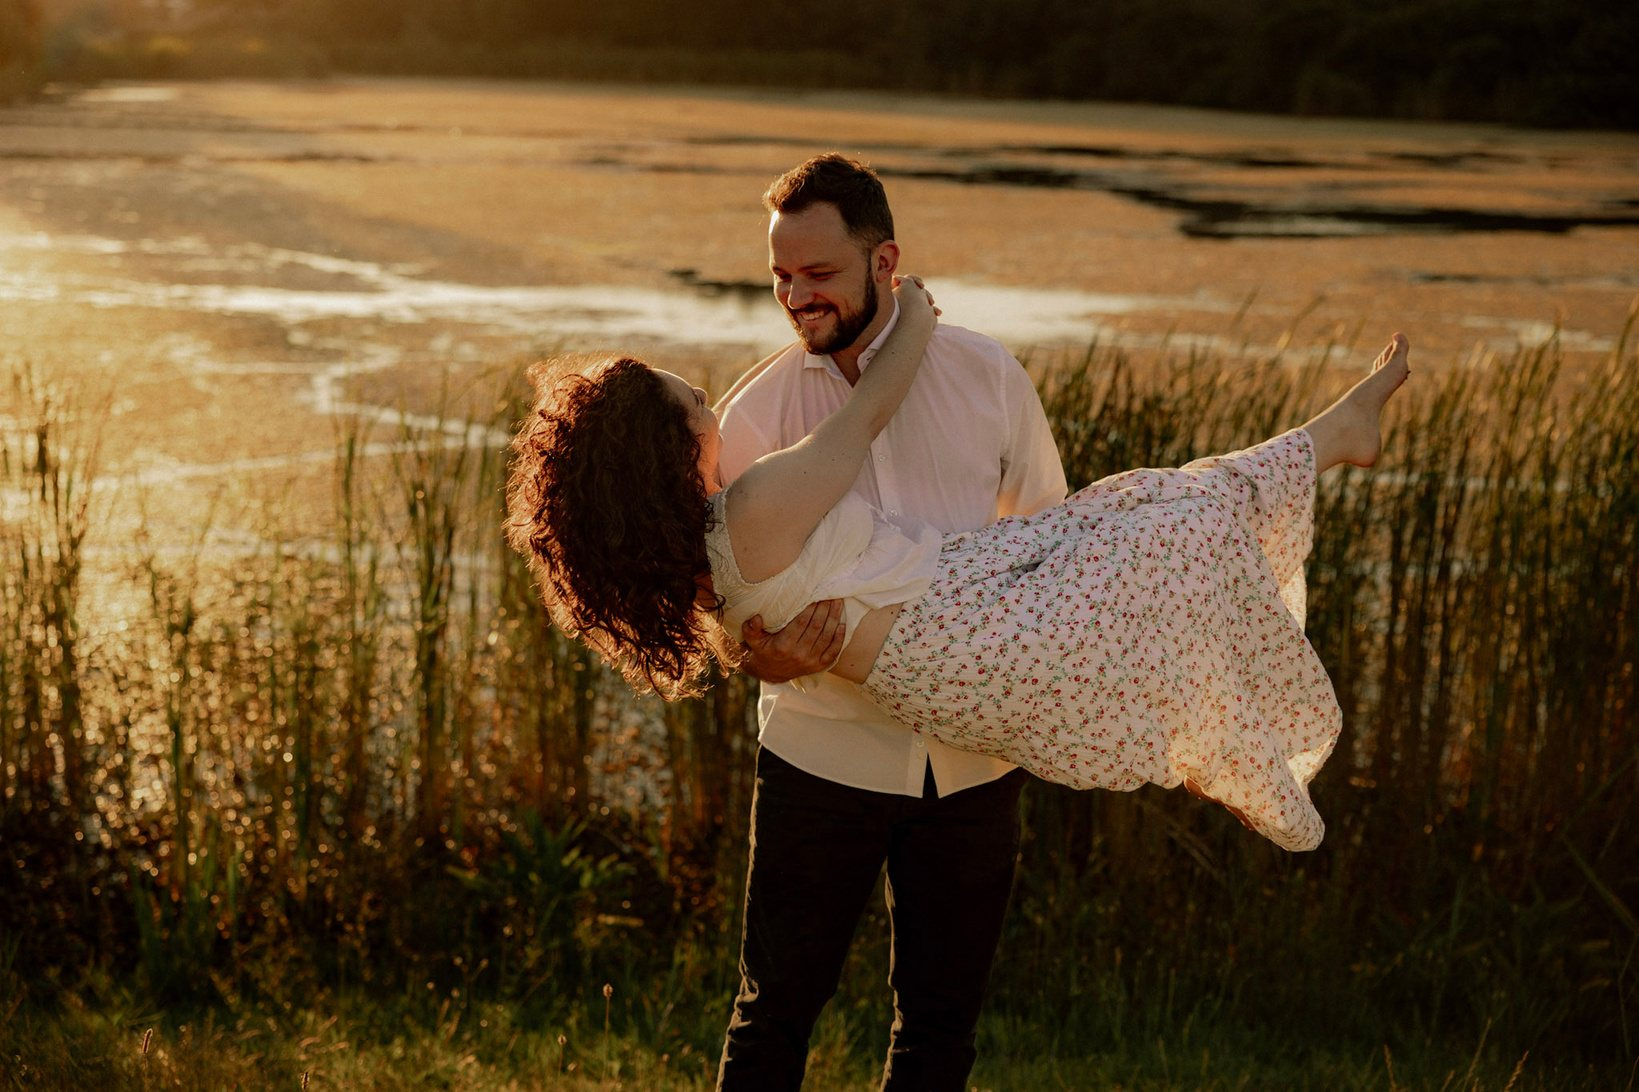
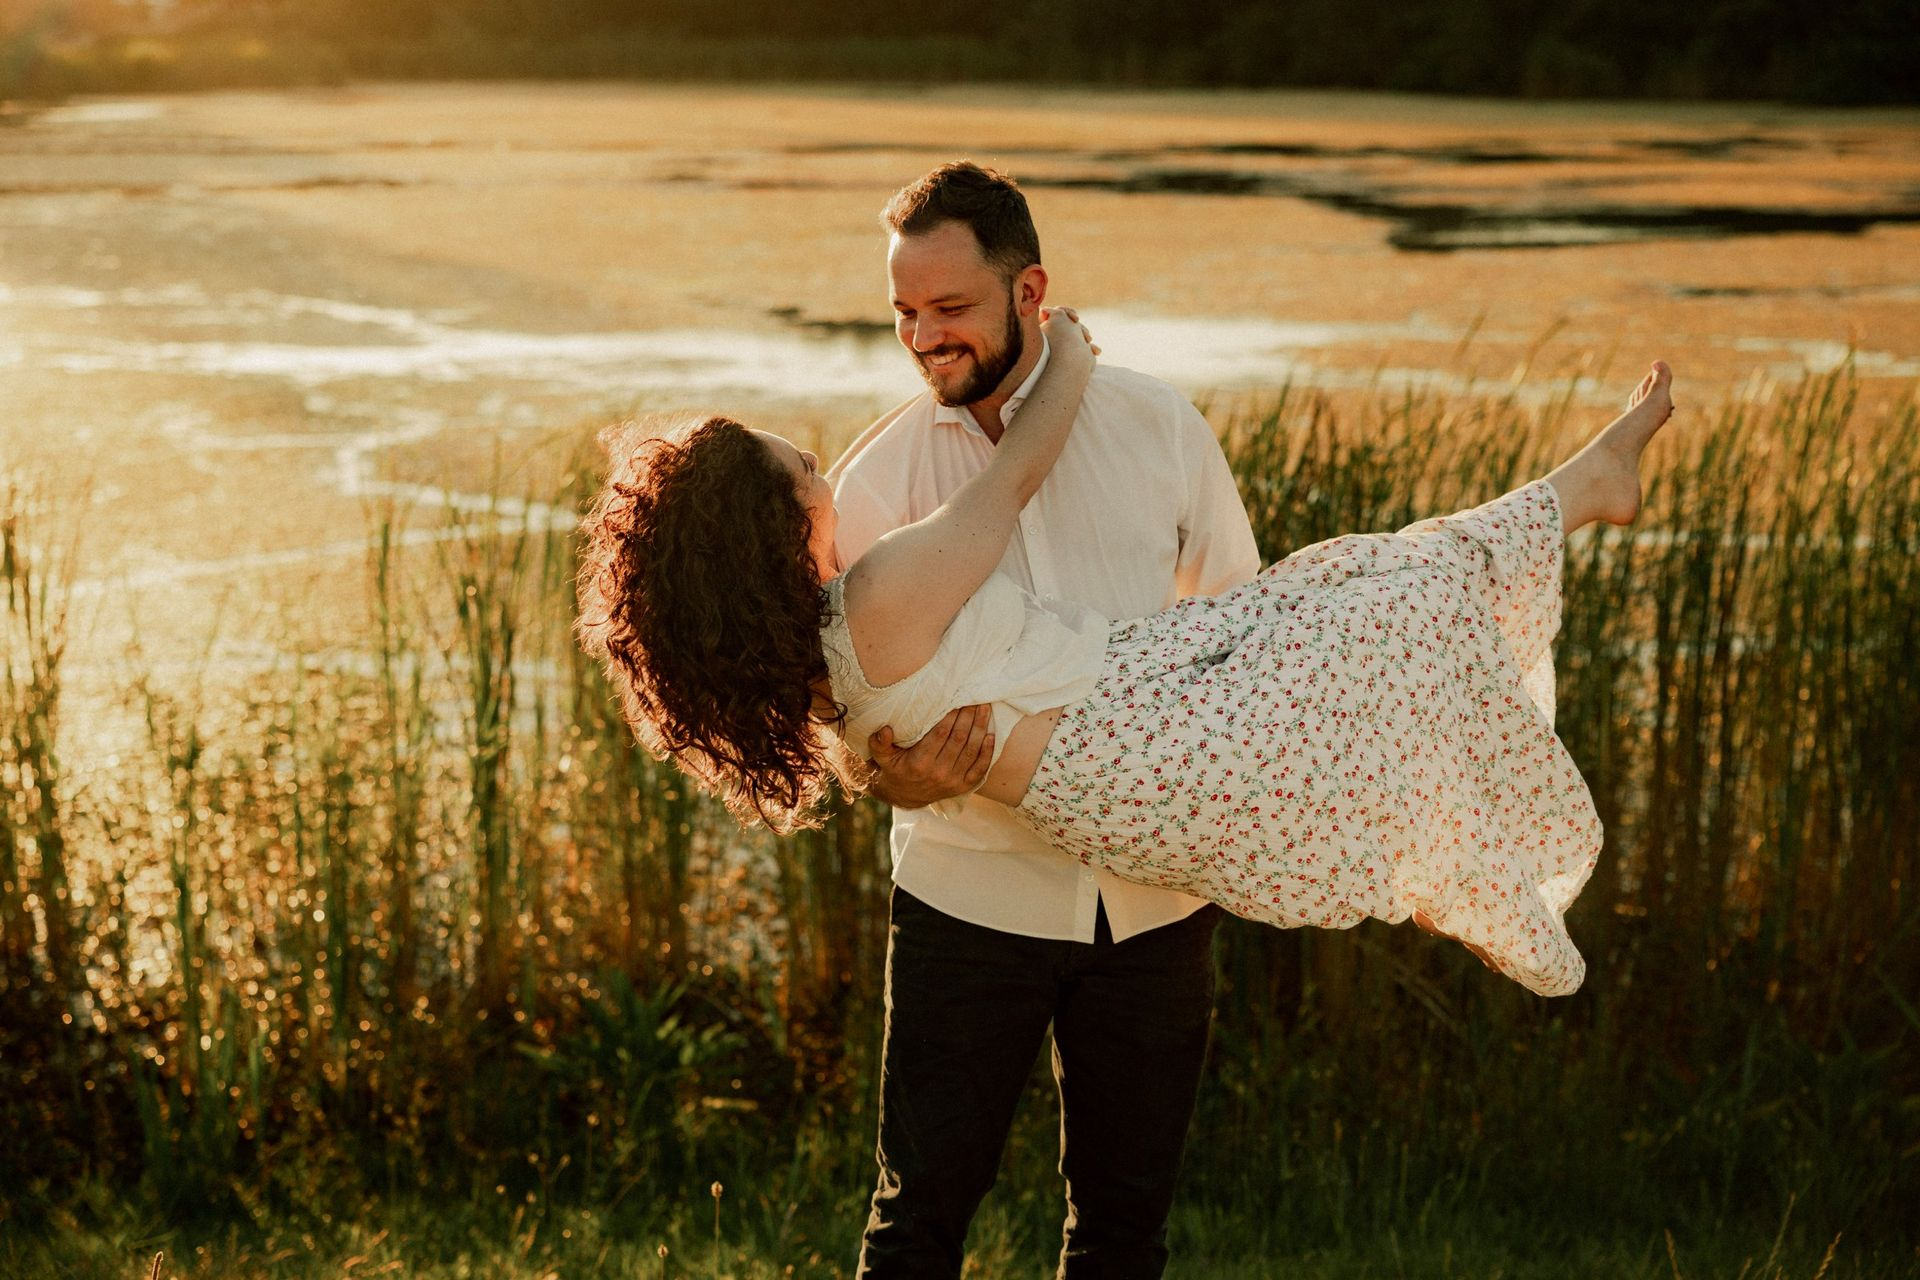
Add files via upload

diff --git a/index.html b/index.html
@@ -188,6 +188,15 @@
     @media (max-width: 760px) {
       .site-header.is-open .nav { font-size: 14px; }
     }
+    /* ---------- Hero framing: keeps the people clear of the headline ---------- */
+    @media (min-width: 901px) {
+      .slide--lake { background-size: 160% auto; background-position: 5% 75%; }
+      .slide--meadow { background-size: 140% auto; background-position: 8% 52%; }
+    }
+    @media (max-width: 900px) {
+      .slide--lake { background-size: auto 150%; background-position: 47% 32%; }
+      .slide--meadow { background-size: auto 150%; background-position: 47% 11%; }
+    }
   </style>
 </head>
 
@@ -222,8 +231,8 @@
 
   <section class="hero" aria-roledescription="carousel" aria-label="Featured photography">
     <div class="slide is-active" style="background-image:url('hero-reeds.jpg'); background-position: center 32%" role="group" aria-label="Slide 1 of 3"></div>
-    <div class="slide" style="background-image:url('hero-lake.jpg'); background-position: center 62%" role="group" aria-label="Slide 2 of 3"></div>
-    <div class="slide" style="background-image:url('hero-meadow.jpg'); background-position: center 55%" role="group" aria-label="Slide 3 of 3"></div>
+    <div class="slide slide--lake" style="background-image:url('hero-lake.jpg')" role="group" aria-label="Slide 2 of 3"></div>
+    <div class="slide slide--meadow" style="background-image:url('hero-meadow.jpg')" role="group" aria-label="Slide 3 of 3"></div>
 
     <div class="hero__content">
       <h1>Romantic, documentary-<br class="br-desk">style photography</h1>
